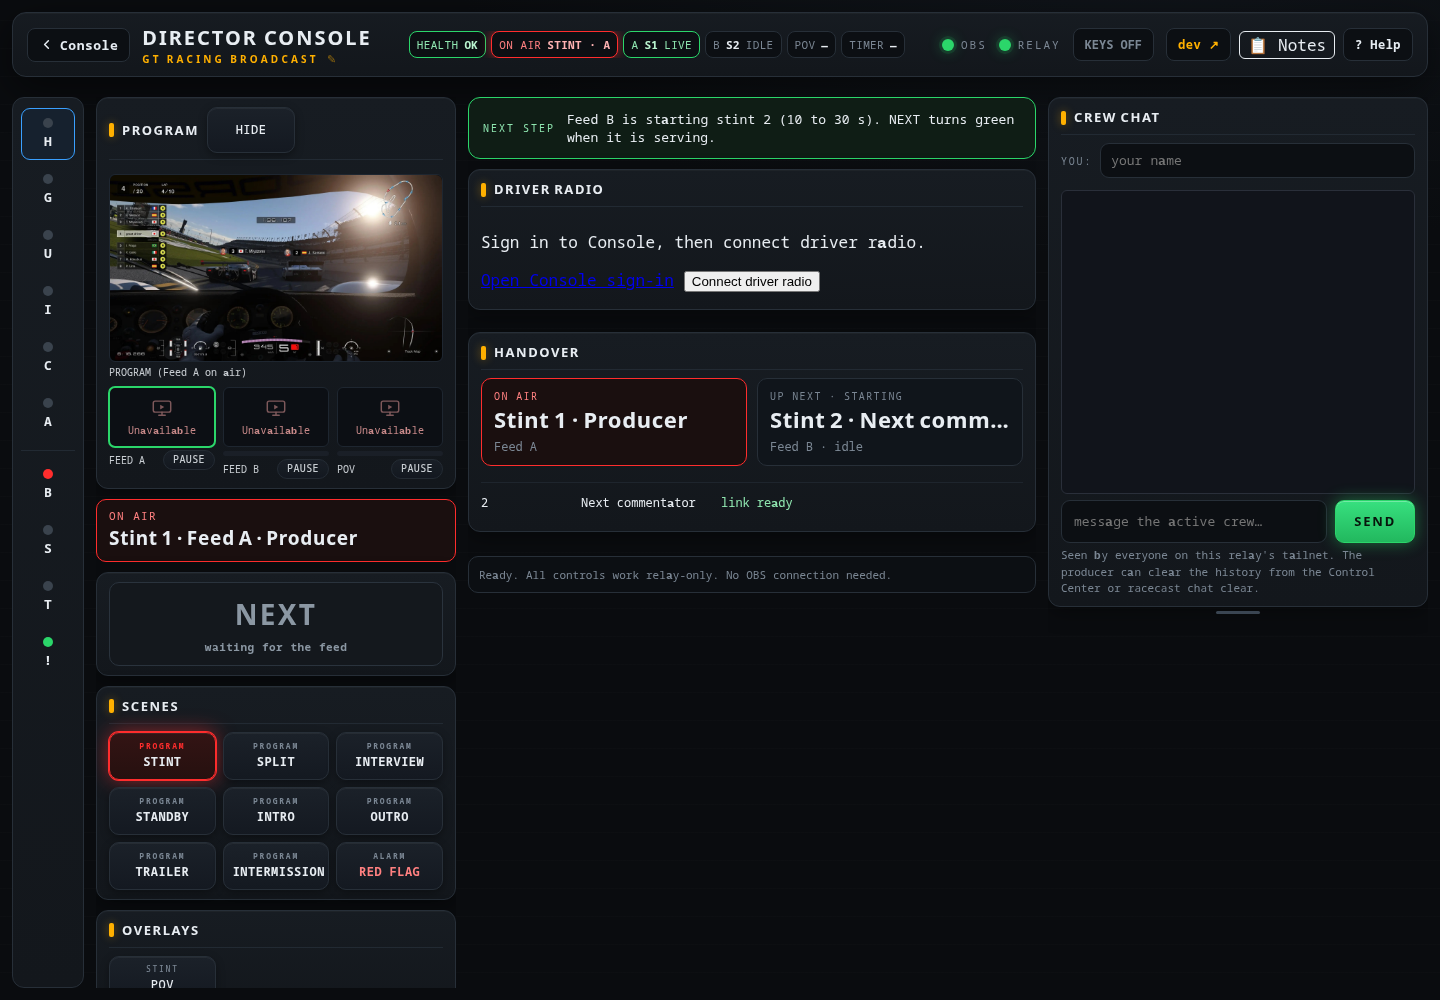
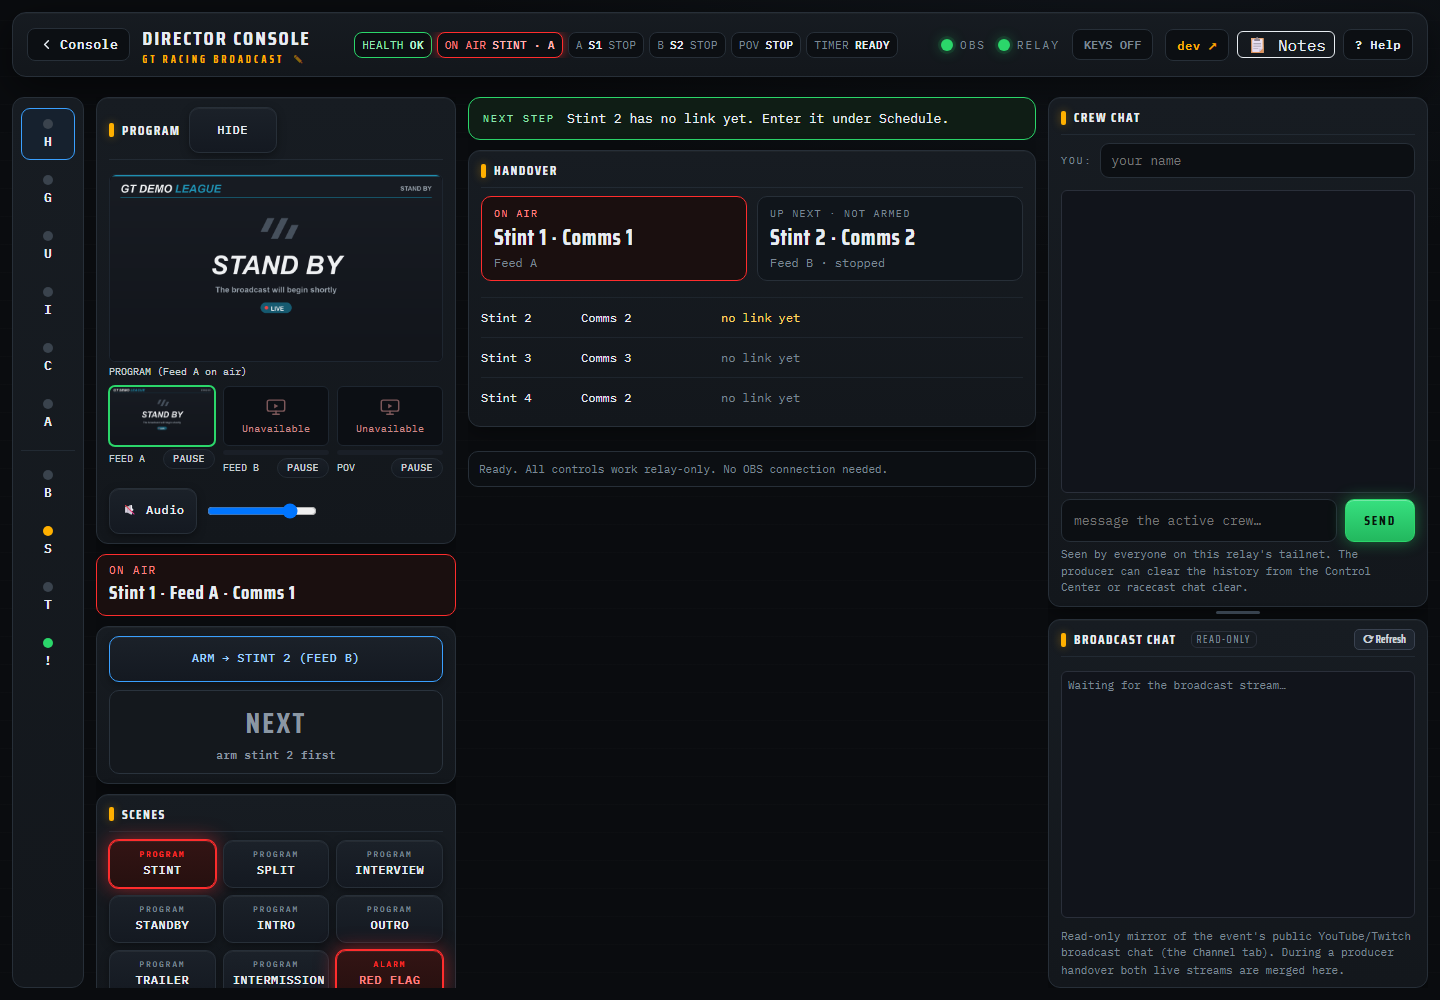
fix(director): remove the driver radio card and keep hidden cards hidden (#1045)
* fix(director): keep hidden cards hidden; the driver radio card showed on every profile

.bus{display:flex} beat the browser's [hidden] rule, so the Solo-POV-only
driver radio card and the empty graphics-request list were always shown.

* docs(wiki): refresh Director Panel screenshots without the stray driver radio card

* fix(director): style the signed-out driver radio entry for the dark panel

* docs(wiki): refresh the Solo Director Panel screenshot with the styled driver radio entry

* Revert "docs(wiki): refresh the Solo Director Panel screenshot with the styled driver radio entry"

This reverts commit 7c0552f74b4d40771047bbdd749f6f8e9557502d.

* refactor(director): remove the driver radio card from the Director Panel

The Control Center holds the AI Race Engineer, AI Coach and Voice controls,
the driver reads the text on the Console driver desk, the broadcast shows the
HUD slots and the crew uses the Race Engineer desk, so the Solo POV panel card
was redundant. Drop the card, its script and CSS, the relay's panel-only
__RC_RADIO_ACCESS__ substitution, the browser-check panel views, and update
the docs and the Solo POV panel screenshot. The .bus[hidden] rule stays (it
still hides the empty graphics-request list).

* docs(wiki): regenerate the solo Director Panel shot via its replay producer; keep view-close coverage

Recapture director-panel-solo.png with tools/e2e-telemetry-replay.py --shots
[…]

diff --git a/src/director/director-panel.html b/src/director/director-panel.html
@@ -126,6 +126,7 @@
     border:1px solid var(--edge);background:linear-gradient(180deg,var(--panel-2),var(--panel));
     border-radius:12px;padding:9px 12px;margin-bottom:12px;
     box-shadow:0 6px 20px rgba(0,0,0,.35), inset 0 1px 0 rgba(255,255,255,.03)}
+  .bus[hidden]{display:none}   /* .bus's display:flex above beats the UA [hidden] rule */
   .bus .cap{flex:0 0 auto;font-family:var(--head);font-weight:700;letter-spacing:.12em;font-size:13px;
     color:var(--ink);text-transform:uppercase;display:flex;align-items:center;gap:8px;
     padding:0 0 6px;border-bottom:1px solid #222a33}
@@ -784,7 +785,6 @@
     </section>
     <main id="workspace">
       <div class="nextstep" id="nextStep" hidden><span class="nslbl">Next step</span><span id="nextStepText"></span></div>
-      <section class="bus" id="driver-radio-card" hidden><div class="cap">Driver radio</div><div id="radio-entry" class="body"><p>Sign in to Console, then connect driver radio.</p><a href="/console">Open Console sign-in</a> <button type="button" id="radio-connect">Connect driver radio</button></div><div id="radio-component"></div></section>
       <div class="area" data-area="handover">
         <section class="bus" id="handoverSec"><div class="cap">Handover</div>
           <div class="hocards"><div class="hocard air" id="hoOnAir"></div><div class="hocard" id="hoNext"></div></div>
@@ -2996,8 +2996,6 @@ function applyMode(qualifying){
 // card. Endurance reports solo=false and no class is set.
 function applySolo(isSolo, template){
   document.body.classList.toggle("solo", !!isSolo);
-  const radio = document.getElementById('driver-radio-card');
-  if (radio) {radio.hidden = !(isSolo && template === 'pov');window.__radioSolo = !radio.hidden;window.__showRadio?.();}
   const box = $("#urlsBox");
   if (box && isSolo) box.open = true;   // POV lives in the schedule <details>;
                                         // force it open so the POV card shows.
@@ -3872,11 +3870,5 @@ pollCueBacks(); setInterval(pollCueBacks, 2000);
     <button type="button" id="partModalConfirm" onclick="submitPart()" disabled>Confirm</button>
   </div>
 </dialog>
-<script src="/console/driver-radio-ui.js"></script><script>
-window.__radioAllowed = "__RC_RADIO_ACCESS__" === "1";
-function connectDriverRadio(){if(window.radioView)return;document.getElementById('radio-entry').hidden=true;window.radioView=DriverRadio.mount(document.getElementById('radio-component'),{compact:true});}
-document.getElementById('radio-connect').onclick=connectDriverRadio;
-window.__showRadio=()=>{if(window.__radioSolo&&window.__radioAllowed)connectDriverRadio();};window.__showRadio();
-</script>
 </body>
 </html>

diff --git a/tools/coach_browser_check.py b/tools/coach_browser_check.py
@@ -13,7 +13,7 @@ PROFILE={'profile':'solo-pov','subject':'local:producer'}
 
 def check(browser,outdir,shots=None):
     sys.path.insert(0,str(ROOT/'tests'))
-    from test_driver_radio_ui import RadioFixture,console
+    from test_driver_radio_ui import RadioFixture
     import driver_coach_controls as controls
     import e2e_visual as V
     out=Path(outdir);out.mkdir(parents=True,exist_ok=True);results=[]
@@ -158,26 +158,14 @@ def check(browser,outdir,shots=None):
             # Frame the three settings cards (AI Race Engineer, AI Coach, Voice) above the training.
             c.evaluate("(node)=>node.scrollIntoView({block:'start'})")
             shot(cc,'coach-control-center','desktop','cc-telemetry.png')
+            # Views are optional; closing the Console driver page cannot stop relay-owned training.
+            assert f.practice.service.snapshot(PROFILE)['active']
+            page.close();f.practice.service.step()
+            assert f.practice.service.snapshot(PROFILE)['active'],'closing the driver page stopped the training'
             apply(cc,c,'#coach-stop',f,'radioAdmin')
-            panel_context=browser.new_context(viewport={'width':1440,'height':1000})
-            panel_context.route('https://fonts.googleapis.com/**',lambda route:route.fulfill(status=200,content_type='text/css',body='/* Offline fixture. */'))
-            try:
-                panel=panel_context.new_page();token=console.m.console_auth.mint_token(console.SECRET,'director')
-                panel.goto(f.url+'/console/panel?t='+token)
-                p=panel.locator('#radio-component');p.locator('#coach-start').wait_for(state='visible')
-                assert p.locator('#coach-skill').is_hidden(),'Compact panel exposed the full review form'
-                sync(panel,f,'radioView');apply(panel,p,'#coach-start',f,'radioView')
-                for n,seconds in ((20,88.5),(21,88.4),(22,88.3),(23,88.4)):
-                    f.practice.complete(n,seconds);f.practice.service.step()
-                sync(panel,f,'radioView');panel.wait_for_function("window.radioView.coach.state?.focus?.focus")
-                assert panel.locator('#driver-radio-card').bounding_box()['y']<900
-                shot(panel,'coach-panel','desktop','director-panel-solo.png')
-                # Views are optional; closing one cannot stop relay-owned training.
-                panel.close()
-                assert f.practice.service.snapshot(PROFILE)['active']
-            finally:panel_context.close()
+            assert not f.practice.service.snapshot(PROFILE)['active'],'only Stop training ends it'
             assert not errors,errors
-            page.close();cc.close()
+            cc.close()
             results.append(V.SurfaceResult('driver-coach-controls','desktop',None,[],0,None))
         optional_ai_visibility(browser)
         results.append(V.SurfaceResult('driver-coach-optional-ai','desktop',None,[],0,None))

diff --git a/tools/radio_browser_check.py b/tools/radio_browser_check.py
@@ -110,17 +110,12 @@ def check(browser,outdir,shots=None):
             first.set_viewport_size({'width':1440,'height':1000})
             menu=context.new_page();menu.goto(f.url+'/console');menu.get_by_text('Driver radio',exact=True).wait_for()
             shot(menu,'driver-radio-console',wiki='console-driver-radio-launcher.png')
-            # Any signed-in Console subject, here a Director, uses the enabled AI Race Engineer.
             f.f.request('fuel');f.enricher.step('audio')
+            # A Director's Console landing; the Director Panel has no driver radio card.
             panel_context=browser.new_context(viewport={'width':1440,'height':1000})
             panel_context.route('https://fonts.googleapis.com/**',lambda route:route.fulfill(status=200,content_type='text/css',body='/* Offline fixture. */'))
-            panel=panel_context.new_page();token=console.m.console_auth.mint_token(console.SECRET,'director')
-            panel.goto(f.url+'/console/panel?t='+token)
-            panel.locator('#driver-radio-card').wait_for(state='visible')
-            panel.locator('#radio-component').locator('[data-preset=fuel]').wait_for(state='visible')
-            assert panel.locator('#driver-radio-card').bounding_box()['y']<900,'Solo radio card must be in the initial workspace'
-            shot(panel,'driver-radio-panel',wiki='director-panel-solo.png')
-            landing=panel_context.new_page();landing.goto(f.url+'/console')
+            token=console.m.console_auth.mint_token(console.SECRET,'director')
+            landing=panel_context.new_page();landing.goto(f.url+'/console?t='+token)
             landing.get_by_text('Director Panel',exact=True).wait_for()
             shot(landing,'driver-radio-director-console',wiki='console-landing.png')
             cc=context.new_page();cc.goto(f.cc_url)

diff --git a/tests/test_director_panel.py b/tests/test_director_panel.py
@@ -677,6 +677,27 @@ def t_old_controls_survive_the_frame():
         assert f'id="{gone}"' not in h, f"#{gone} belongs to the old layout"
 
 
+def t_hidden_bus_cards_stay_hidden():
+    # `.bus{display:flex}` beats the browser's [hidden] rule, so a card the markup or the
+    # script hides (the empty graphics-request list) showed on every profile. Every
+    # hidden-capable .bus needs an author [hidden] rule.
+    h = _html()
+    hidden_bus = re.findall(r'<section class="bus" id="([^"]+)"[^>]*\bhidden\b', h)
+    assert "gfxReqSec" in hidden_bus, hidden_bus
+    css = re.sub(r"/\*.*?\*/", "", h[:h.index("</style>")], flags=re.S)
+    assert re.search(r"\.bus\[hidden\]\s*\{\s*display\s*:\s*none", css), \
+        "a hidden .bus card must not be shown by .bus{display:flex}"
+
+
+def t_no_driver_radio_card():
+    # Driver radio lives in the Control Center (controls), the Console driver page (text),
+    # the HUD (broadcast) and the Race Engineer desk (crew); the panel card was redundant.
+    h = _html()
+    assert "driver-radio-card" not in h, "the Director Panel has no driver radio card"
+    assert "driver-radio-ui.js" not in h, "the Director Panel does not load the radio component"
+    assert "__RC_RADIO_ACCESS__" not in h, "the panel needs no radio access placeholder"
+
+
 def t_frame_columns_in_order():
     _order(_html(), '<div class="frame">', '<nav id="areaNav"', '<section id="liveCol"',
            '<main id="workspace">', '<aside class="rail" id="chatRail"')

diff --git a/src/relay/racecast-feeds.py b/src/relay/racecast-feeds.py
@@ -12123,11 +12123,6 @@ def make_handler(relay, panel_path=None, hud_source=None, hud_path=None, assets_
             oauth_flag = b"1" if (discord_client_id and discord_client_secret) else b""
             body = body.replace(b"__RC_OAUTH__", oauth_flag)
             body = body.replace(b"__RC_VERSION__", (app_version or "dev").encode())
-            try:
-                radio_allowed = bool(radio_access and self._console_subject() and radio_page_access())
-            except (driver_radio_access.RadioError, OSError, ValueError):
-                radio_allowed = False
-            body = body.replace(b"__RC_RADIO_ACCESS__", b"1" if radio_allowed else b"0")
             if b"<!--__CREW_FRAME__-->" in body:
                 try:
                     with open(crew_frame_path, "rb") as fh:

diff --git a/src/docs/wiki/Driver-Radio.md b/src/docs/wiki/Driver-Radio.md
@@ -17,7 +17,7 @@ by either switch.
 
 | Output | AI Race Engineer | AI Coach |
 |---|---|---|
-| Text on a second device | **AI Race Engineer** section of the Console driver desk and the Director Panel Solo card: presets, latest answer and its messages | **AI Coach** section of the same views: training controls, focus, review, debrief, private history and its messages |
+| Text on a second device | **AI Race Engineer** section of the Console driver desk: presets, latest answer and its messages | **AI Coach** section of the same desk: training controls, focus, review, debrief, private history and its messages |
 | Audio | Native voice on the relay PC, when the shared **Voice** settings enable it | The same native voice and the same single playback slot |
 | Voice controls | **Voice** row above both sections (pause listening, reply mute, volume, input language), shown while either feature is on | The same row |
 | Control Center | **AI Race Engineer** card (switch and agent) | **AI Coach** card (switch and agent) and **AI Coach training** below the settings |
@@ -34,8 +34,6 @@ and sends each view only the messages of the features that are switched on
 (plus those hints): with the AI Coach alone,
 the desk shows the coach messages and the **Voice** row, and no engineer
 messages; with the AI Race Engineer alone, no coach messages leave the relay.
-
-![Driver radio in the Solo POV Director Panel](images/director-panel-solo.png)
 
 ## HUD slots
 
@@ -88,10 +86,11 @@ archive and producer permissions remain separate.
 
 ![Driver radio setup: AI Race Engineer, AI Coach and Voice cards](images/cc-telemetry.png)
 
-While either feature is on, every signed-in Console shows **Driver radio**. A direct Director Panel visit
-uses the same Console identity. Sign in through Console, then choose **Connect
-driver radio** in the Solo POV card. Existing Director controls keep working when
-radio access is unavailable.
+While either feature is on, every signed-in Console shows **Driver radio**, which
+opens the driver desk. The Director Panel has no driver radio card: the switches and
+the training controls live in the Control Center, the driver reads the text on the
+Console driver desk, the broadcast shows the HUD slots, and the crew follows along on
+the human **Race Engineer** desk.
 
 ![Driver-only Console launcher](images/console-driver-radio-launcher.png)
 

diff --git a/src/docs/design/driver-radio-ui.md b/src/docs/design/driver-radio-ui.md
@@ -1,7 +1,12 @@
 # Driver radio browser controls
 
-Epic #969, delivery #974. One shared component drives the Solo POV Director card
-and the dedicated authenticated driver desk. It never captures or plays audio;
+Epic #969, delivery #974. One shared component drives the dedicated authenticated
+driver desk and the Control Center form. It also drove a compact Solo POV card in
+the Director Panel until 2026-10-31, when that card was removed as redundant: the
+Control Center holds the controls (AI Race Engineer, AI Coach and Voice cards), the
+driver reads the text on the Console driver desk, the broadcast shows the HUD slots
+and the crew uses the human Race Engineer desk. The rows below that name the
+Director card or the direct panel describe the original delivery. It never captures or plays audio;
 the deliberately enabled native relay service owns those lifetimes.
 
 | Requirement | Production path | Positive test | Failure test | Runtime evidence |
@@ -30,7 +35,7 @@ revoked data. Prior validated interpretations remain visible with their messages
 ## Two AI features (epic #1023, issue #1028)
 
 The component shows the AI Race Engineer and the AI Coach as two labelled sections
-in the driver desk and the Director Solo card, and the Control Center form as three
+in the driver desk (and, until 2026-10-31, the Director Solo card), and the Control Center form as three
 cards: AI Race Engineer (switch and agent), AI Coach (switch and agent) and the
 shared Voice. Messages are split by their `source`; a `refusal` (the fixed
 `feature_disabled` hint of a switched-off feature, no engineer data) is labelled
